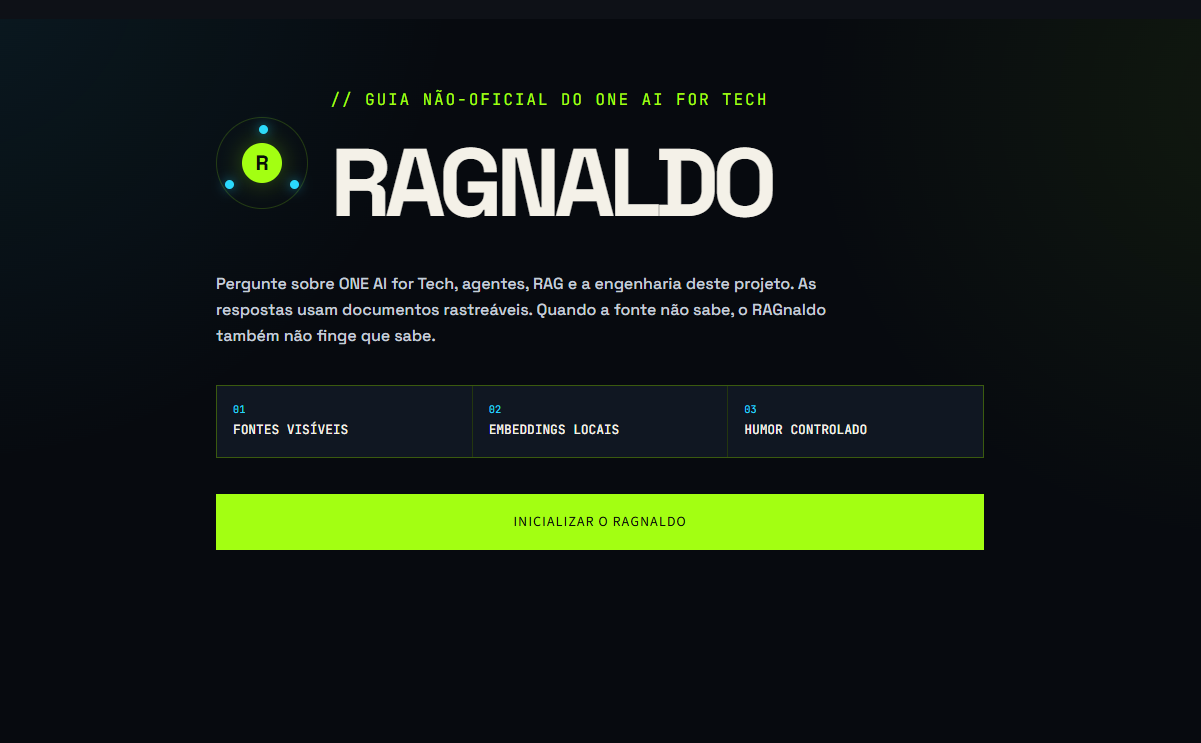
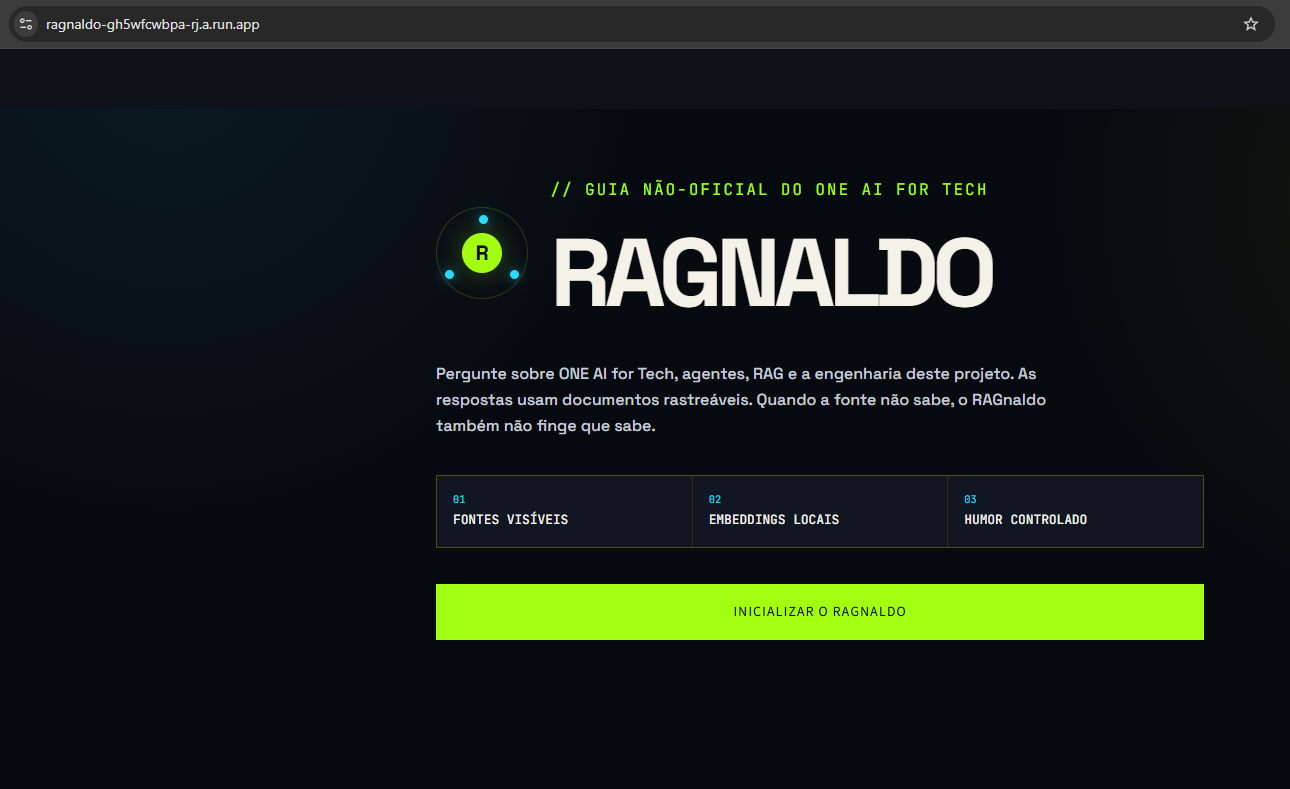
docs: captura com URL visivel e linha real do registro de execucao
A captura anterior da landing nao mostrava a barra de enderecos, o que a
tornava indistinguivel de execucao local. A nova preserva o dominio run.app.

Adiciona ao README uma linha real do execution.jsonl e a tabela que mapeia
cada requisito obrigatorio do enunciado ao ponto onde foi cumprido.

diff --git a/README.md b/README.md
@@ -6,9 +6,9 @@
 
 O RAGnaldo é o projeto desenvolvido para o Challenge Alura Agente. Ele usa RAG para responder perguntas com base em documentos públicos e em documentação autoral do projeto, sempre apresentando as fontes recuperadas — e recusando quando elas não sustentam a resposta.
 
-![Página inicial do RAGnaldo](assets/landing.png)
+![Página inicial do RAGnaldo em execução no Cloud Run](assets/landing.png)
 
-A landing carrega sem importar torch, sentence-transformers, LangChain ou FAISS. Esses recursos só entram em memória quando o visitante inicializa o agente.
+A captura mantém a barra de endereços à mostra — `ragnaldo-gh5wfcwbpa-rj.a.run.app` — porque uma imagem de aplicação Streamlit sem a URL não distingue nuvem de `localhost`. A landing carrega sem importar torch, sentence-transformers, LangChain ou FAISS. Esses recursos só entram em memória quando o visitante inicializa o agente.
 
 ![RAGnaldo respondendo com fontes rastreáveis](assets/agente-respondendo.png)
 
@@ -126,6 +126,27 @@ Isso não é teste unitário e não pode ser: nos dois modos de falha de um RAG 
 
 Cada pergunta gera uma linha em `artifacts/logs/execution.jsonl` com timestamp, pergunta, resposta, trechos recuperados com suas distâncias, latência, modelo e eventual erro. O arquivo fica fora do Git porque contém as perguntas reais de quem usa o agente.
 
+Uma linha real, com a resposta abreviada e a lista de trechos reduzida a três:
+
+```json
+{
+  "timestamp": "2026-08-03T00:35:17.376605+00:00",
+  "question": "voce utiliza alguma tecnologia oracle?",
+  "answer": "Não encontrei no contexto nenhuma informação sobre as tecnologias usadas na minha…",
+  "refused": false,
+  "model": "claude-sonnet-5",
+  "latency_ms": 4176,
+  "retrieved": [
+    {"source": "oracle_ai_insights_america_latina_2025.pdf", "location": "página 29", "chunk_id": "d6ac22530f351ae7", "distance": 0.665},
+    {"source": "one_ai_for_tech_oracle_snapshot.html", "location": "documento", "chunk_id": "649e6935ef13451e", "distance": 0.7728},
+    {"source": "fontes_e_licencas.md", "location": "documento", "chunk_id": "bdcf6368cf54624d", "distance": 0.8159}
+  ],
+  "error": null
+}
+```
+
+Esse caso mostra a divisão de trabalho descrita acima. `refused` é `false` porque o corte de evidência deixou passar: o corpus fala bastante de Oracle, e a menor distância foi 0,665. Quem recusou foi o modelo, ao ver que os trechos tratavam da Oracle no mercado latino-americano, não das tecnologias com que este agente foi construído. O corte responde "há assunto?"; a pergunta "há resposta?" é do modelo.
+
 ## Fontes
 
 Baixe as fontes públicas registradas no manifesto:
@@ -183,9 +204,18 @@ A preparação da infraestrutura está em [`infrastructure/SETUP.md`](infrastruc
 | **Serviço OCI** | OCI Object Storage, bucket dos documentos-fonte |
 | **Capturas** | [`assets/landing.png`](assets/landing.png) · [`assets/agente-respondendo.png`](assets/agente-respondendo.png) |
 
-As duas imagens no topo deste documento foram capturadas da aplicação em execução no Cloud Run, não de ambiente local.
+As duas imagens no topo deste documento foram capturadas da aplicação em execução no Cloud Run, não de ambiente local. A primeira preserva a barra de endereços com o domínio `run.app`, que é o que torna a evidência verificável em vez de apenas afirmada.
 
-Cada pergunta respondida em produção gera uma linha em `artifacts/logs/execution.jsonl` com timestamp, trechos recuperados, distâncias, latência e modelo.
+Cada pergunta respondida em produção gera uma linha em `artifacts/logs/execution.jsonl` com timestamp, trechos recuperados, distâncias, latência e modelo — o formato está exemplificado em [Registro de execução](#registro-de-execução).
+
+### Onde cada requisito obrigatório foi cumprido
+
+| Requisito do enunciado | Onde |
+|---|---|
+| Repositório público no GitHub | <https://github.com/FSzekut/ragnaldo> |
+| Ao menos um serviço OCI no deploy | OCI Object Storage guarda os documentos-fonte; o pipeline os baixa antes de indexar, em `.github/workflows/deploy.yml` |
+| Imagem ou vídeo do agente executando em nuvem | As duas capturas acima, com a URL do Cloud Run visível |
+| Registro da execução (card 8) | `artifacts/logs/execution.jsonl`, com pergunta, contexto recuperado, resposta, timestamp e latência |
 
 ## Segurança antes de commits
 
